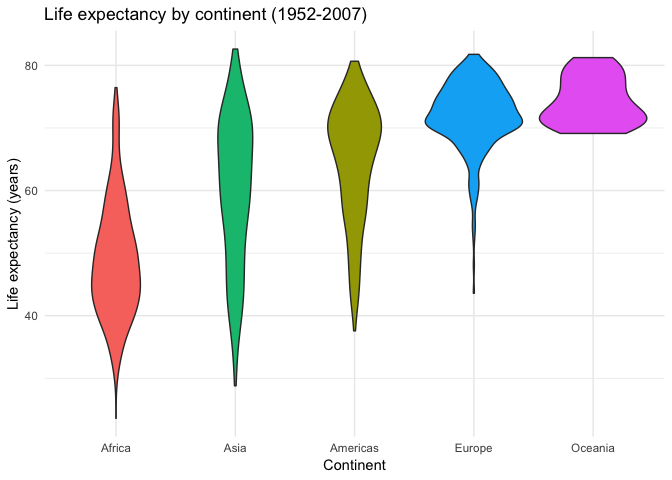
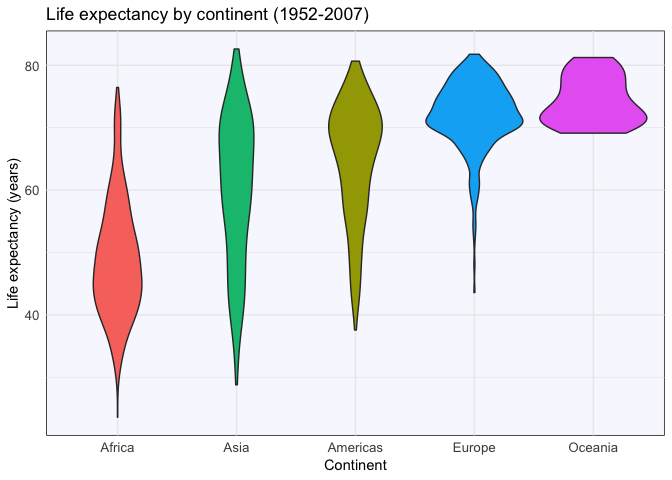
plotly

diff --git a/hw05-exercise.md b/hw05-exercise.md
@@ -231,11 +231,11 @@ Let's see how we could clean this up.
 -   Colour each continent differently
 -   Add meaningful x and y labels, and a title
 -   Remove unnecessary information, in this case, the legend
--   Add a theme, I chose `minimal` to keep it clean
+-   Add a theme, I chose `minimal` to keep it clean, and then added a background of `ghostwhite` :ghost: spooky
 
 ``` r
-#Use gapminder dataset
-gapminder %>%
+#Store graph as variable `l`
+l <- (gapminder %>%
 #Plot continent vs lifeExp, reorder by lifeExp
 ggplot(aes(fct_reorder(continent, lifeExp, .fun = median), lifeExp, fill = continent)) +
 #Add a violin plot
@@ -249,7 +249,21 @@ ggplot(aes(fct_reorder(continent, lifeExp, .fun = median), lifeExp, fill = conti
   #Remove the legend
   guides(fill = FALSE) +
   #Add a theme
-  theme_minimal()
+  theme_minimal() +
+  #Change font size of axis text
+  theme(axis.text = element_text(size=10),
+        #Change panel background colour
+        panel.background = element_rect(fill="ghostwhite")))
+#Print graph
+l
 ```
 
 ![](hw05-exercise_files/figure-markdown_github/unnamed-chunk-11-1.png)
+
+Now we will make this graph using `plotly`
+
+``` r
+#Make plotly graph with object `l`
+ply <- ggplotly(l)
+#Save it as an html file
+```
